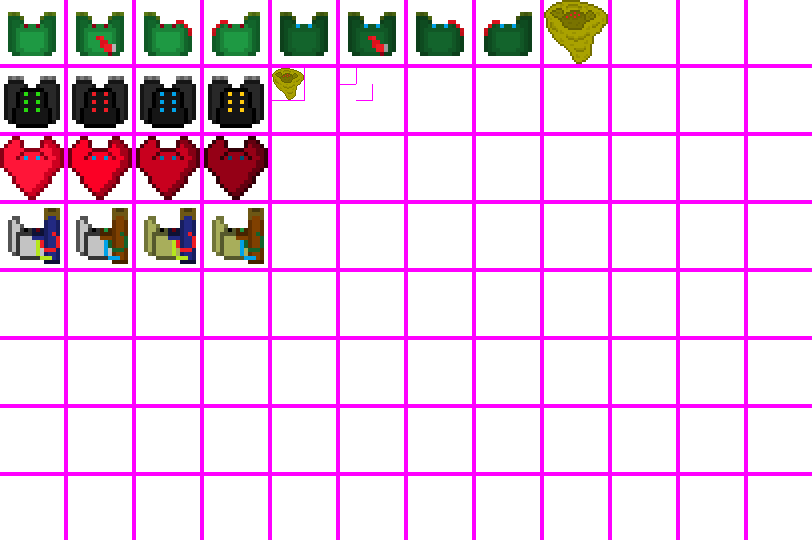
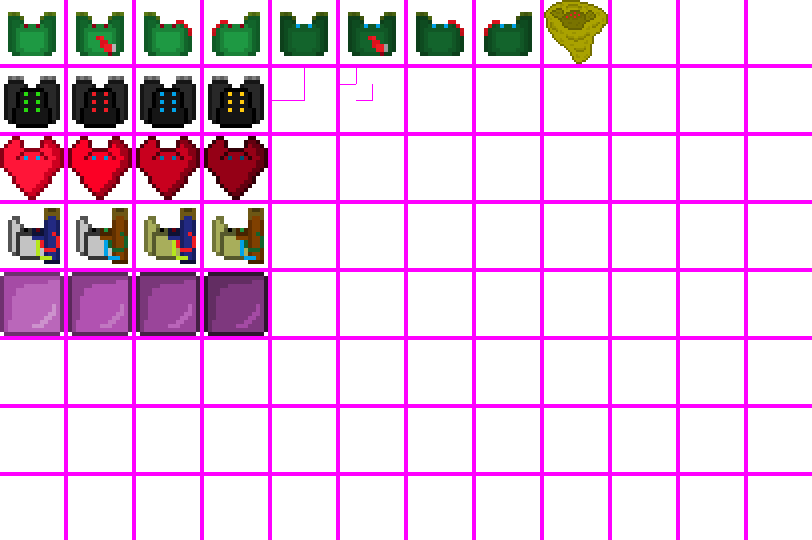
gel cube monster

Changed region(s): [[0.0, 0.5037, 0.3387, 0.6222], [0.3387, 0.1185, 0.3695, 0.1778]]

diff --git a/app/src/gameplay/entities/monsters/gelcube.js b/app/src/gameplay/entities/monsters/gelcube.js
@@ -1,0 +1,87 @@
+"use strict";
+class GelCube extends _Monster {
+
+    constructor(){
+        super();
+        this.tileX = Util.randInt(0, 3);
+        this.tileY = 4;
+        this.maxHp = Util.randInt(70, 80);
+        this.displaySize = Util.randFloat(2, 2.1);
+        this.defence = 0;
+        this.speed = Util.randFloat(0.010, 0.011);
+
+
+        // TEMP _ ALL MONSTERS AND THE PLAYER SHOULD CHECK COLLISONS WITH EACH OHER TO PREVENT OVERLAP
+        this.checksCollisions = true;
+        this.collisoonCheckFrequency = 5;
+        this.collisionCheckTimer = 0;
+        this.collidesPlayer = true;
+    }
+
+    _onDamaged(d){
+        super._onDamaged(d);
+    }
+
+    _onExpire(){
+        super._onExpire();
+        for(var i = 0; i < Util.randInt(2, 3); i++){
+            var monster = new GelCubeSmall();
+            monster.x = this.x + Util.randFloat(-1, 1);
+            monster.y = this.y + Util.randFloat(-1, 1);
+            StageManager.currentStage.monsters.push(monster);
+            monster.awaken();
+        }
+    }
+
+    _doExist(thisEntity){
+        var p = StageManager.currentStage.player;
+        var dir = thisEntity.getDirectionToPoint(p.x, p.y);
+        var dist = thisEntity.getDistanceToPoint(p.x, p.y);
+        // if(dist < 9) {
+        //     thisEntity.rocketAttack.execute();
+        // }
+        thisEntity.travel(dir);
+        thisEntity.turn(dir);
+        thisEntity.checkForInWall();
+        thisEntity.doCheckCollisions();
+    }
+
+    _onCollisionWithPlayer(entity){
+        entity.takeDmg(1);
+    }
+}
+
+class GelCubeSmall extends GelCube {
+
+    constructor(){
+        super();
+        this.maxHp = Util.randInt(30, 40);
+        this.displaySize = Util.randFloat(1, 1.1);
+        this.speed = Util.randFloat(0.012, 0.013);
+    }
+
+    _onExpire(){
+        for(var i = 0; i < Util.randInt(2, 3); i++){
+            var monster = new GelCubeTiny();
+            monster.x = this.x + Util.randFloat(-1, 1);
+            monster.y = this.y + Util.randFloat(-1, 1);
+            StageManager.currentStage.monsters.push(monster);
+            monster.awaken();
+        }
+    }
+}
+
+class GelCubeTiny extends GelCube {
+    
+    constructor(){
+        super();
+        this.maxHp = Util.randInt(10, 15);
+        this.displaySize = Util.randFloat(0.5, 0.6);
+        this.speed = Util.randFloat(0.015, 0.016);
+    }
+
+    _onExpire(){
+        // todo
+    }
+}
+

diff --git a/app/src/gameplay/entities/_character.js b/app/src/gameplay/entities/_character.js
@@ -1,15 +1,10 @@
 "use strict";
 class _Character extends _Damageable{
-
-    // ==================== fields ====================
-    power;                  // - used as a multiplier for character's actions etc.
     
     // ==================== constructor ====================
     constructor(){
         // super constructor
         super();
-        // default values
-        this.power = 10;
     }
 
     // ==================== methods ====================
@@ -19,5 +14,5 @@ class _Character extends _Damageable{
 
     _onIsInWall(){
         this.restorePreviousPosition();
-    }
+    }   
 }

diff --git a/app/src/gameplay/entities/monsters/monsterFactory.js b/app/src/gameplay/entities/monsters/monsterFactory.js
@@ -6,7 +6,8 @@ const MonsterFactory = {
         1 : Drone,
         2 : Ghost,
         3 : Skeleton,
-        4 : OozeLord,
+        4 : GelCube,
+        5 : OozeLord,
 
         default : Zombie
     },
@@ -17,7 +18,7 @@ const MonsterFactory = {
      * @param {number} y - monster y position
      */
     getMonster(id, x, y){
-        id = Util.randInt(0, 4);
+        id = Util.randInt(0, 5);
         var monsterClass = this._monsterTypeDict[id] ? this._monsterTypeDict[id] : this._monsterTypeDict.default;
         var monster = new monsterClass();
         if(x && y){

diff --git a/app/src/gameplay/entities/monsters/skeleton.js b/app/src/gameplay/entities/monsters/skeleton.js
@@ -5,7 +5,7 @@ class Skeleton extends _Monster {
         super();
         this.tileX = Util.randInt(0, 3);
         this.tileY = 3;
-        this.maxHp = Util.randInt(32, 40);
+        this.maxHp = Util.randInt(50, 60);
         this.displaySize = Util.randFloat(1.4, 1.6);
         this.defence = 15;
         this.speed = Util.randFloat(0.018, 0.020);
@@ -34,5 +34,6 @@ class Skeleton extends _Monster {
         }
         thisEntity.turn(dir);
         thisEntity.checkForInWall();
+        thisEntity.doCheckCollisions();
     }
 }

diff --git a/app/index.html b/app/index.html
@@ -82,6 +82,7 @@
 	<script src="src/gameplay/entities/monsters/zombie.js"></script>
 	<script src="src/gameplay/entities/monsters/drone.js"></script>
 	<script src="src/gameplay/entities/monsters/ghost.js"></script>
+	<script src="src/gameplay/entities/monsters/gelcube.js"></script>
 	<script src="src/gameplay/entities/monsters/skeleton.js"></script>
 	<script src="src/gameplay/entities/monsters/oozeLord.js"></script>
 	<script src="src/gameplay/entities/monsters/monsterFactory.js"></script>

diff --git a/app/src/gameplay/entities/projectiles/weapon5Y1Projectile.js b/app/src/gameplay/entities/projectiles/weapon5Y1Projectile.js
@@ -16,7 +16,7 @@ class Weapon5Y1Projectile extends _DamagingProjectile {
         this.tileY = 2;
         
         this.collisionSize = 0.2;
-        this.displaySize = 0.3;
+        this.displaySize = 0.35;
         this.collidesMonster = true;
     }
 

diff --git a/app/src/gameplay/entities/monsters/oozeLord.js b/app/src/gameplay/entities/monsters/oozeLord.js
@@ -39,6 +39,7 @@ class OozeLord extends _Monster {
         }
         thisEntity.turn(dir);
         thisEntity.checkForInWall();
+        thisEntity.doCheckCollisions();
     }
 
 }

diff --git a/app/src/gameplay/entities/monsters/zombie.js b/app/src/gameplay/entities/monsters/zombie.js
@@ -35,6 +35,7 @@ class Zombie extends _Monster {
         }
         thisEntity.turn(dir);
         thisEntity.checkForInWall();
+        thisEntity.doCheckCollisions();
     }
 
 }

diff --git a/app/src/gameplay/entities/monsters/drone.js b/app/src/gameplay/entities/monsters/drone.js
@@ -34,5 +34,6 @@ class Drone extends _Monster {
         }
         thisEntity.turn(dir);
         thisEntity.checkForInWall();
+        thisEntity.doCheckCollisions();
     }
 }
